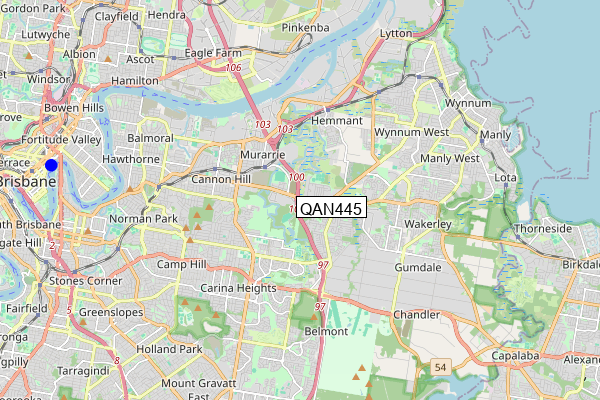
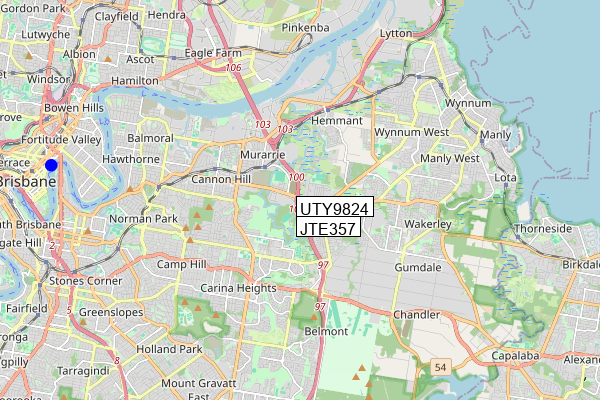
Updated map drawing to loop through callsigns

Changed region(s): [[0.48, 0.48, 0.63, 0.6]]

diff --git a/src/Services/map.py b/src/Services/map.py
@@ -2,7 +2,7 @@ from staticmap import StaticMap, CircleMarker
 from PIL import Image, ImageDraw, ImageFont
 
 
-def generateMap ():
+def generateMap (callSigns):
     # Create a map (size in pixels)
     m = StaticMap(600, 400)
 
@@ -23,23 +23,28 @@ def generateMap ():
     except:
         font = ImageFont.load_default()
 
-    #define text (flight number)
-    text = "QAN445" #to be replaced with plane RN
-    text_x, text_y = 300, 200 #position in pixels (to change to lat/lon)
 
-    #rectangle
-    bbox = draw.textbbox((text_x, text_y), text, font=font)
-    text_w = bbox[2] - bbox[0]
-    text_h = bbox[3] - bbox[1]
+    for i, text in enumerate(callSigns):
+        # Calculate vertical placement
+        y_offset = 25
+        text_x = 300
+        text_y = 200 + i * y_offset
 
-    #draw rectangle 
-    padding = 4
-    box_coords = [
-        (text_x - padding, text_y - padding),
-        (text_x + text_w + padding, text_y + text_h + padding)
-    ]
-    draw.rectangle(box_coords, fill="white", outline="black")
-    draw.text((text_x, text_y), text, font=font, fill="black")
+        # Get text bounding box
+        bbox = draw.textbbox((text_x, text_y), text, font=font)
+        text_w = bbox[2] - bbox[0]
+        text_h = bbox[3] - bbox[1]
+
+        # Draw rectangle
+        padding = 4
+        box_coords = [
+            (text_x - padding, text_y - padding),
+            (text_x + text_w + padding, text_y + text_h + padding)
+        ]
+        draw.rectangle(box_coords, fill="white", outline="black")
+
+        # Draw text
+        draw.text((text_x, text_y), text, font=font, fill="black")
 
     image.save("map.png")
     image.show()

diff --git a/src/main.py b/src/main.py
@@ -32,7 +32,7 @@ def main():
         callsigns = [state[1].strip() for state in data['states'] if state[1].strip() != ""]
         print(callsigns)
 
-    generateMap()
+    generateMap(callSigns=callsigns)
 
 if __name__ == "__main__":
     main()
